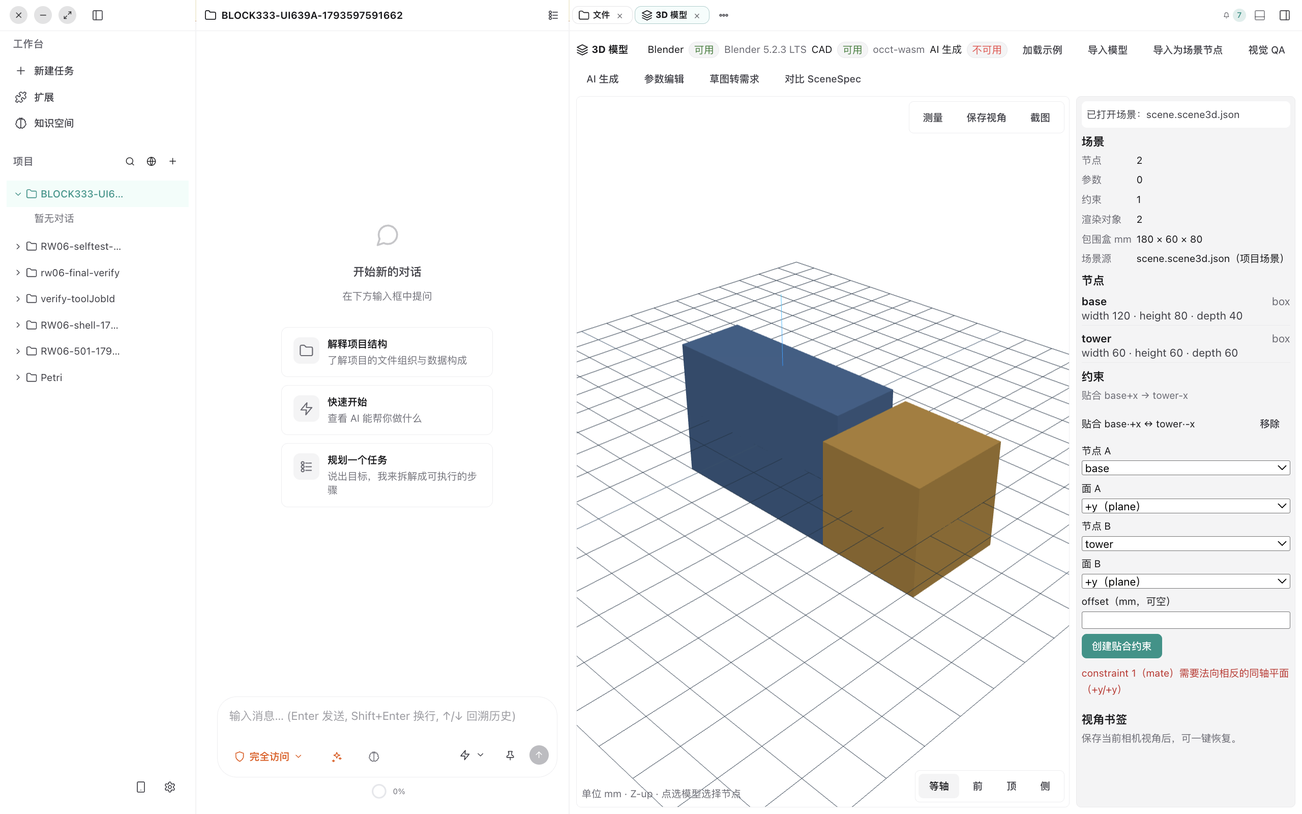
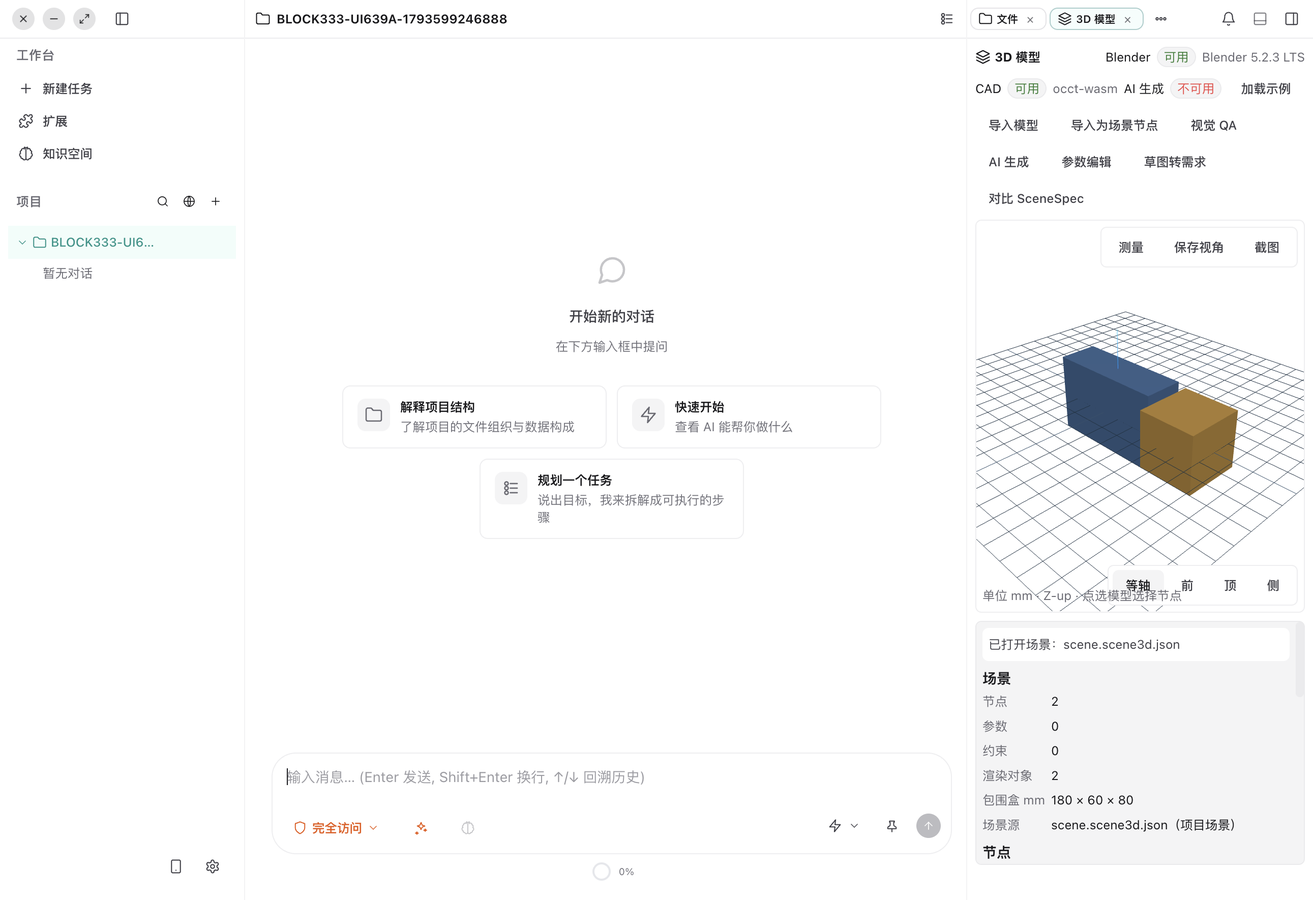
feat(block-333): UI-639a 约束编辑器实机腿 13/13，UI-639a 翻 verified（UI-639a）
dev 栈重启后复跑：U10 移除闭环——约束由创建端分配 id=c1，点「移除」文件归零、UI 空态；全 13/13 allPass。\n\n台账：UI-639a in_progress→verified（dev Electron 边界内，证据 acceptance/block-333/*-darwin.json）。BLOCK-332 债 29→28（live-missing 6→5，DEBT_CEILING 下调）。BLOCK-333 completed，registry/README/AUDIT-LOG/handoff 同步。\n\n环境抓真：dev-electron.js 不拉 Vite（重启后须单独起 frontend dev）；重启后 CDP 回落 9222，flow 用 PETRI_CDP_PORT 覆盖。

diff --git a/docs/AUDIT-LOG.md b/docs/AUDIT-LOG.md
@@ -1,13 +1,12 @@
 # 审计广播台 (AUDIT-LOG)
-最后更新：2026-11-02（🔵 **启动登记（active）：BLOCK-333 UI 补腿批第一批 = UI-639a 约束编辑器工作区实机腿**（用户裁决「行 按照建议继续推进」，承接 `ui-leg-live-batch` 建议，Jev 不可用按队列序兜底）——**实机腿 12/13**（flow=`block333-ui639a-constraint-editor-live`，走真实入口：`/project/<id>?file=scene.scene3d.json` → 预览「在 3D 模型打开」→ 约束四下拉 → 提交 → **读磁盘复核写盘**）：U0–U9b 全绿（约束 `kind=mate a=base aFace=+x b=tower bFace=-x` 真进 scene 文件、UI 列表反映、同节点被前端守卫拒、法向同向 +y/+y 被**后端**拒且文件未变）；**U10「移除」BLOCKED=旧后端仍在跑**（core 变更不热更，需重启 dev 栈）。**实机抓到并已修真缺陷：约束建出来就再也删不掉**——编辑器按钮 `disabled={!row.id}`、后端 `remove_constraint` 按 `c.id` 匹配，但 `add_constraint` 从不分配 id 且 `CONSTRAINT_FIELDS` 白名单不收 id（三条证据链见 plan §3）；修法=id 纳入四类白名单 + 创建即分配唯一 `cN`（避开既有 id）+ 重复 id 显式拒 + `validateSceneSpec` 对重复/非法 id 给错（老场景无 id 仍合法，加性）。跨语言一致性由既有 `block322-p3-constraints` 门禁抓真（前端 `scene3d.ts` 白名单必须同步，本包实测红过一次）。证据：契约 `test/block333-constraint-id-addressable.test.mjs` 5/5 + `block322-p3-constraints` 8/8 + 前端 scene3d 15/15 + `acceptance/block-333/*-darwin.json`。plan=docs/block-333-ui-leg-live-batch-plan.md。G0 开发期常态 · 不外推 packaged/Provider/GA。）
+最后更新：2026-11-02（🔵 **启动登记（active）：BLOCK-334 结果宿主统一 = 右栏承载 · 中央四态退役 · 渲染层合并**（用户裁决三段：「目前我们有结果查看面板 我在想这个是否有必要呢？毕竟我们有文件预览 也有3D模型 结果展示页面」→「右侧栏还有个结果 也是重复的吧 中间栏结果面板不是很合适,使用上不丝滑.」→「把这个怎么做说的明白点 并且立包,下面开干」）——评估结论：结果面板**本体不可砍**（任务产物落全局 `jobs/<jobId>/output/` 不在项目工作区、文件树看不到；真值/血缘/受控改写 Composer/pack 结果面契约别处没有），错的是**宿主形态**：中央接管是 UI-106（G0-RS-P1）从 360px 右栏迁出的决定，前提已不成立（右栏「文件」今为 UI-451 多 tab 常驻栈、3D 工作面同栏、`resultRightWidth:720` 偏好位仍在），其后 P4R-2 / UI-116 / UI-181 / UI-653 四笔补丁都在为「中央是模态的」买单；右栏「结果」tab 只剩 `ResultStudioInspector` + 高级抽屉，与中央 ContextBar 八成重合、结果态下被 UI-116 收起只在回会话时露出残影。**裁决 D1–D7**：四态（result/code/compare/history）降为宿主局部子状态不进 URL，URL 只留 `?job=&artifact=` 且跟右栏结果开合同步 / 右栏加宽走独立偏好 `resultRightWidth` + 左栏收起（UI-116 语义只留左半边）/ Inspector 退役（来源工具+技术详情折进 CompactResultNavigator）/ 不留中央「放大」兜底（reopen=实机证明 720–900px 不可用则由用户裁决）/ 旧四态深链 fail-closed 落 chat（同 UI-347/364/365 退役 search/plugins/settings 口径）/ P2 以 `viewerRegistry` 为两宿主唯一分派源 / 判定=重构非补丁（迁前后定向测试对账）。**阶段**：P1 宿主迁移（新建 `work-surface/ResultsSurface` 吸收 CenterPanel 结果块与 pack 解析簇；RightPanel 接宿主；`WorkspaceMode='chat'|'scheduled'`；`handleOpenResult` 去 `preserveWorkspaceMode`；标题栏/open-effects/packTabData/resultFocusLayout 去四态依赖；UI-657）→ P2 渲染层统一（markdown/table/text/image/html/spreadsheet 六类各一个 viewer + 批注/选择 scope 参数化；PDF/3D/video 只改引用；UI-658）。**非范围**：后端 manifest/truth/revision 契约与落盘位置零改、零新依赖、不重设计 compare 分屏、不动 scheduled/3D 工作面/文件 tab 栈、不做结果独立窗、不列 G1+。**并行隔离**：BLOCK-333 在制未提交 WIP（`core/petri-server/helpers/scene3d.js`、`frontend/src/lib/scene3d.ts`、`acceptance/block-333/`、`test/block333-*`、dev-verify flow）零触碰、不 stage、不提交；本包文件面见 plan §7。plan=docs/block-334-result-host-unification-plan.md。G0 开发期常态 · 不外推 packaged/Provider/GA。）
+最后更新：2026-11-02（✅ **BLOCK-333 UI 补腿批第一批 completed：UI-639a 约束编辑器工作区腿实机 13/13，UI-639a 翻 verified**（用户裁决「行 按照建议继续推进」，承接 `ui-leg-live-batch` 建议，Jev 不可用按队列序兜底）——**实机腿 12/13**（flow=`block333-ui639a-constraint-editor-live`，走真实入口：`/project/<id>?file=scene.scene3d.json` → 预览「在 3D 模型打开」→ 约束四下拉 → 提交 → **读磁盘复核写盘**）：U0–U9b 全绿（约束 `kind=mate a=base aFace=+x b=tower bFace=-x` 真进 scene 文件、UI 列表反映、同节点被前端守卫拒、法向同向 +y/+y 被**后端**拒且文件未变）；**U10「移除」已闭环**：dev 栈重启后（Vite 单独拉起 + Electron 重载 dev server）复跑 **13/13 allPass**——约束由创建端分配 ，点「移除」后文件 constraints 归零、UI 空态。**实机抓到并已修真缺陷：约束建出来就再也删不掉**——编辑器按钮 `disabled={!row.id}`、后端 `remove_constraint` 按 `c.id` 匹配，但 `add_constraint` 从不分配 id 且 `CONSTRAINT_FIELDS` 白名单不收 id（三条证据链见 plan §3）；修法=id 纳入四类白名单 + 创建即分配唯一 `cN`（避开既有 id）+ 重复 id 显式拒 + `validateSceneSpec` 对重复/非法 id 给错（老场景无 id 仍合法，加性）。跨语言一致性由既有 `block322-p3-constraints` 门禁抓真（前端 `scene3d.ts` 白名单必须同步，本包实测红过一次）。证据：契约 `test/block333-constraint-id-addressable.test.mjs` 5/5 + `block322-p3-constraints` 8/8 + 前端 scene3d 15/15 + `acceptance/block-333/*-darwin.json`。plan=docs/block-333-ui-leg-live-batch-plan.md。G0 开发期常态 · 不外推 packaged/Provider/GA。）
 最后更新：2026-11-02（**BLOCK-332 UI 台账证据债分诊 completed**（用户裁决「行的 按照建议推进」，承接 Jev 建议 `ui-evidence-debt`，Jev 不可用按队列序兜底已标注）——核心澄清：`grep -c in_progress` 给的 **218 是假数**（历史「最后更新」链行同带该词 + `in_progress → verified` 叠加写法 + 同 id 多段），按**段首状态**解析实测 **451 段 / 442 唯一 id：verified 411 / closed 11 / live-missing 6 / blocked 23 / unknown 0**，真债=**29**；②13 处状态词规范化（只改状态字段，不新增判断、全部有台账内既有裁决原话支撑）：UI-185 六段同判 `superseded`（2026-10-30 RW-02 d 档：审阅面已由 UI-204/249 承接）/ UI-197+UI-505 `cancelled`（判销）/ UI-524+UI-485 `verified`（RW-02 d 档改判：组件测试与 theme 门禁即证据载体，移出实机腿验收域）/ UI-461 `verified`（守卫 3/3+170/170+tsc 0，零视觉变化）/ UI-200 `in_progress`（本轮核对 CodeMirrorDiffView 已投产 ReviewMode + 组件 8/8，缺实机过目）/ UI-595 `in_progress`（降档 b：组件 62/62 已锚，待图像 artifact 腿）；③新增 `npm run ui:audit:triage`（口径单一源 `scripts/ui-ledger-triage.mjs` 导出 `triageLedger()`，测试 import 不复写）+ **状态契约与债上限棘轮** `test/ui-ledger-status-contract.test.mjs` **4/4**（段首合法状态词 / 同 id 至多一段未闭合 / live-missing≤6+blocked≤23 只许下降 / 证据与台账同构防旧快照）；④分诊表入 plan §4：可补 6 条（UI-639a 首选、UI-475、UI-522；UI-534 实为交付债；UI-595 随 artifact seed；UI-526 卡 R 运行时授权）+ 受阻 23 条按「环境触发 / 需裁决 / 待交付 / 待复核」四类归因，**待复核族不冒充已判档**；⑤**非范围**：不补任何条目实机腿、不重建历史段，补腿另立批次。plan=docs/block-332-ui-ledger-evidence-debt-plan.md；证据 acceptance/block-332/ui-ledger-triage.json。**当前无 active 工作包**。G0 开发期常态 · 不外推 packaged/Provider/GA。）
 最后更新：2026-11-02（**四项裁决批当日立项当日收口：BLOCK-329/330/331 completed**（用户裁决「除 R 运行时下载授权与 G1+ 暂不做，其它几项都确定开整」+「一次性搞定」）——①**BLOCK-329** macOS 转盘 mp4 外部 ffmpeg 合成回退：`helpers/ffmpeg-turntable.js` 接线进 `blender-provider.js`（读 report 后、登记 outputs 前），窄触发（`video` 缺席 + `movieCapability='unavailable'` + 帧在盘；`movie_render_failed` 真失败不代偿，`PETRI_MODEL3D_FFMPEG_FALLBACK=0` 可关），concat 显式帧清单 → libx264/yuv420p/偶数缩放 → 与 Blender 同名 `turntable.mp4`，留痕 `videoSource='ffmpeg'` + `blenderVideoError` 保留 + `videoError` 清空；契约 **4/4** + mac 实机 `block322-p2-04-turntable-live` **13/13 allPass**（`tier=ffmpeg`，mp4 15797B、sha/bytes 磁盘重算一致、`ftypisom` 文件头、临时帧清单零残留）；plan=docs/block-329-ffmpeg-turntable-plan.md。**环境抓真**：本机 brew ffmpeg 8.1 因 x265 4.1→4.2 soname 失配无法启动（`libx265.215.dylib`）→ `brew reinstall ffmpeg`（9.0.2）后实机通过；"二进制存在≠可用"入册，不可用时 fail-closed（`ffmpeg_failed` + stderr 原文，不出空壳 mp4）。②**BLOCK-330** db 装配层循环加载收敛 + dev-verify 证据名平台化：`db/schema.js` 删掉纯副作用 `require('./connection')`（BLOCK-328 抓真的环），依赖恢复单向 `connection → schema`，schema 可独立 require（真进程验证 + 不建库），顺带删 `busyRetryDelays()` 幽灵副本使退避表单一声明；`createRun` 证据名改 `<slug>-live-<process.platform>`（加性，旧文件不动，`-live` 不双拼）并写入 `platform` 字段；门禁 **4/4 + 5/5（block328）+ 5/5（block326）+ 5/5（dev-verify）**；plan=docs/block-330-db-require-order-plan.md。③**BLOCK-331** C-14+C-01「先实测量化再定形、不硬造」：测量腿 `scripts/block331-tool-output-measure.mjs` → `acceptance/block-331/tool-output-measure.json`（6 类真实形态样本经模型可见出口：单条 290–1500 tokens；60 次工具调用 ≈ 52110 tokens = 64k 窗口 79.5% / 128k 39.8%；与 `computeContextBreakdown` 对账同量级）；由数字定形=**通用超限路径改头 40%+尾 60%+精确省略字符数**（原实现只留头、尾部整段丢=真缺陷，原文仍在 tool_trace_store/tool_jobs 可回读）+ **每行 DOM 节点 ≤60 棘轮**（实测 user 7 / assistant 42；500 条 ≈ 21000 节点 vs Chromium ~10k 阈值）；**虚拟化不引依赖**（重开条件量化：≥400 条真实会话 + 用户卡顿或 >10k 节点，首选零依赖 `content-visibility`）；契约 **5/5** + `agent-tool-result` 15/15 + 前端 DOM 棘轮 1/1；plan=docs/block-331-tool-output-and-list-scale-plan.md。四条 🟡（mac mp4 缺席 / 证据名平台化 / schema 循环 / 二者随附）全部翻 ✅。**当前无 active 工作包**。G0 开发期常态 · 不外推 packaged/Provider/GA。）
 最后更新：2026-11-02（**换 Agent 交接登记**：用户裁决「除 R 运行时下载授权与 G1+ 暂不做，其它几项都确定开整」=A mac 转盘 mp4 外部 ffmpeg 合成（2026-10-31 🟡 翻为已裁决待实现，RULING-03 同型）/ B db 装配层循环加载收敛（2026-11-02 🟡）/ C dev-verify 证据文件名平台化（2026-10-31 🟡 另一半）/ D C-14 工具输出压缩 + C-01 长列表虚拟化（重开条件未触发，裁决=先实测量化再定形）。A 项 WIP=`helpers/ffmpeg-turntable.js`（untracked 未接线）；四项勘察结论与落点见 handoff 恢复要点。未立项任何 BLOCK（立项由接手 Agent 按 WORK-PACKAGE-LAUNCH-CHECKLIST 执行）。G0 开发期常态 · 不外推 packaged/Provider/GA。）
 最后更新：2026-11-02（**BLOCK-328-EARLY-LOOP-GUARD completed（当日立项当日收口；用户裁决「行呀 开整」）**：327 取证收口两道防线——①加载期守卫 `helpers/early-loop-guard.js`（server.js 在 require('./db') 前定格基准、db 加载后超 3000ms 告警；**实证**：持写锁 3.5s 启动 → `[early-loop] ⚠ module-load phase took ~3456ms` 在监听前打出，昨天隐形的同步 busy 等待现在可见）②`initSchemaWithBusyRetry`（退避 2s/5s，仅 busy_timeout 10s 耗尽后介入，非 BUSY 立抛 fail-closed）。零行为变化（正常启动无告警无重试）。证据=契约 5/5（含真进程持锁集成）+ 邻域 13/13 + closeout 十一门 PASS。**实机抓真**：`db/schema.js` 被先 require 时循环加载 TDZ（HEAD 同样崩 initSchema is not a function）——本包把自有导出前置挂载到 require('./connection') 之前消除入口盲点，但 `getCurrentG0Baseline` TDZ 属存量，登记 🟡 不扩界。plan=docs/block-328-early-loop-guard-plan.md。G0 开发期常态 · 不外推 packaged/Provider/GA。）
 最后更新：2026-11-01（**BLOCK-327-MAC-COLDSTART-DIAGNOSIS 启动登记（active；用户裁决「可以的 继续」）**：Mac 冷启动 event-loop ~10s 阻塞取证——2026-09-30 🟡 的本机复现与根因定位（--cpu-prof + 启动时间线），只取证不改产品；两个旧嫌疑（stale-running/retention sweeper）已排除在先。plan=docs/block-327-mac-coldstart-diagnosis-plan.md。G0 开发期常态 · 不外推 packaged/Provider/GA。）
 最后更新：2026-11-01（**BLOCK-326-AUDIT-DEBT-SWEEP 启动登记（active；用户裁决「继续冲 搞完」）**：AUDIT-LOG 🟡 工程债清偿五项=①SIGTERM teardown 只关库不退出（修+spawn 回归测试）②四 flow 缺 id 致 verify --list 必红（补导出）③state living-plan 漏报+BLOCK-322 registry 漏翻转④C6 夹具过时（mate 已入白名单，改 bond）⑤decision-api no_key 早退不落账（补 degraded）。不含需裁决项（mac ffmpeg/平台文件名/R 下载留 🟡）。plan=docs/block-326-audit-debt-sweep-plan.md。G0 开发期常态 · 不外推 packaged/Provider/GA。）
-最后更新：2026-11-01（**BLOCK-325-MODEL-SURFACE-BUDGET 启动登记（active；用户裁决「很棒 继续」）**：模型可见面尺寸预算 CI 门禁——系统提示/工具定义字面量与工具数基线棘轮（任何增长即红，--update 下调需说明）+ 核心面退役词扫描；基线 test/model-surface-baselines.json；pack 注入内容不在扫描面（合法域扩展通道）。plan=docs/block-325-model-surface-budget-plan.md。G0 开发期常态 · 不外推 packaged/Provider/GA。）
-最后更新：2026-11-01（**BLOCK-324-REASON-TAXONOMY 启动登记（active；用户裁决「开整」）**：统一结构化原因码 taxonomy——封闭 REASONS 注册表 + renderReason + 源码扫描机械锁（新增未注册即红）；第一批=治理/审批族归并；GET /api/ai/reason-codes 词表出口；加性接线零行为变更；decision_log 自由文本不归并（reopen）。plan=docs/block-324-reason-taxonomy-plan.md。G0 开发期常态 · 不外推 packaged/Provider/GA。）
 
 
 
@@ -145,6 +144,7 @@
 > 已收口条目（✅）**一律移入「最近处理记录」**，不得在本区段堆积——本次清理将 23 条已收口项迁出，
 > 待处理项由 28 行降为 8 行（活跃项占比 100%）。新增 ✅ 项请直接追加到「最近处理记录」。
 ## 最近处理记录
+| 🔵 BLOCK-334-RESULT-HOST-UNIFICATION（结果宿主统一：右栏承载 · 中央四态退役 · 渲染层合并，2026-11-02；用户裁决「把这个怎么做说的明白点 并且立包,下面开干」） | 2026-11-02 | **启动登记（active；P1 宿主迁移 → P2 渲染层统一）**：评估=结果面板本体不可砍（产物在全局 jobs 目录、真值/血缘/Composer/pack 契约的唯一宿主），宿主形态错（UI-106 中央接管的前提已失效；P4R-2/UI-116/UI-181/UI-653 四笔补丁同根）；右栏「结果」Inspector 为旧宿主残骸，退役。D1 四态局部化不进 URL / D2 `resultRightWidth` 独立偏好 + 左栏收起 / D3 Inspector 退役 / D4 无中央放大兜底 / D5 旧深链 fail-closed 落 chat / D6 viewerRegistry 唯一分派 / D7 重构非补丁。门禁预期：tsc 0 + 定向 vitest（CenterPanel→ResultsSurface 迁址用例 / RightPanel / routing / title-bar / open-effects）+ gate:code-size + docs/ui 门 + 实机 `acceptance/block-334/result-host-live.json` 八断言 + closeout 十一门。并行 BLOCK-333 文件面零触碰不 stage。plan=docs/block-334-result-host-unification-plan.md | BLOCK-334 / P0-LAUNCH |
 | ✅ BLOCK-328-EARLY-LOOP-GUARD（加载期守卫 + initSchema busy 重试，2026-11-02；用户裁决「行呀 开整」） | 2026-11-02 | **completed（当日收口）**：327 修复三选项中②+①落地；守卫能见度实证（持锁 3.5s → ~3456ms 告警在监听前）；重试仅在 busy_timeout 耗尽后介入；零行为变化；契约 5/5 + 邻域 13/13 + closeout PASS；存量循环加载 TDZ 登记 🟡。plan=docs/block-328-early-loop-guard-plan.md | BLOCK-328 / P6-CLOSED |
 | ✅ AUDIT-LOG 🟡 工程债五项清偿（SIGTERM 不退出 / C6 判据过时 / next:suggest 不落账 / state 漏报 living-plan / verify --list 必红）completed（BLOCK-326 清偿批；用户裁决「继续冲 搞完」） | 2026-11-01 | 五项修法均在案、当日清偿：①SIGTERM teardown 捕获 httpServer 关库→close→exit(0) 2000ms 兜底 + spawn 真进程回归测试；②四 flow 补 id/description/evidenceDir，verify --list 已可跑；③workspace-state 纳入 living-plan 槽位 + **根因回写** BLOCK-322/STAGE-34 registry 翻 completed（13 包收口机械核对）④C6 夹具 mate→bond+文案对齐 scene3d 现值；⑤decision-api no_key 早退补 degraded 落账（实跑次数台账可见）。证据=test/block326-audit-debt-sweep.test.mjs 5/5 + closeout 十一门 PASS。**不含需裁决项**：mac ffmpeg 合成/dev-verify 证据文件名平台化/R 下载授权留 🟡。plan=docs/block-326-audit-debt-sweep-plan.md | BLOCK-326 / P6-CLOSED |
 | ✅ BLOCK-325-MODEL-SURFACE-BUDGET（model-surface 尺寸预算门禁，2026-11-01；用户裁决「很棒 继续」） | 2026-11-01 | **completed（当日立项当日收口）**：scripts/model-surface-baseline.mjs（measure/compare/--update 纯函数）+ 基线 test/model-surface-baselines.json（systemPromptChars/toolDefsCount/toolDefsChars/perToolChars）+ 契约测试（预算棘轮：任何增长即红 + 退役词扫描：核心系统提示与工具定义不含 单细胞/scRNA/DESeq2/Seurat/FigCode/空间转录组）；红线=只测核心面不扫 pack 注入内容、不预设阈值（基线=现状首测）、增长必须 --update+commit 说明。非范围=token 级预算（CK-04 SECTION_CHAR_BUDGETS 已有）/前端 bundle（block141 已有）。证据=契约 4/4 + closeout 十一门 PASS；基线首测 systemPrompt=940 chars / toolDefs=104 个 56614 chars。plan=docs/block-325-model-surface-budget-plan.md | BLOCK-325 / P6-CLOSED |

diff --git a/docs/README.md b/docs/README.md
@@ -1,5 +1,6 @@
 # Petri Desktop（格物）文档入口
-316. [`block-333-ui-leg-live-batch-plan.md`](./block-333-ui-leg-live-batch-plan.md) — 2026-11-02 **in_progress（用户裁决「行 按照建议继续推进」）**：UI 补腿批第一批=UI-639a 约束编辑器工作区实机腿——真实入口（文件预览→「在 3D 模型打开」→约束四下拉→提交）走到写盘；**12/13**（U0–U9b 全绿：约束真写进 scene 文件、UI 反映、同节点被前端拒、法向同向被后端拒且不写盘；U10 移除待 dev 栈重启）。**实机抓到真缺陷**：约束建出来删不掉（`add_constraint` 从不分配 id + `CONSTRAINT_FIELDS` 白名单不收 id，而移除按钮/后端都按 id 寻址）→ 已修（id 为一等字段 + 前后端白名单同步）+ 契约 5/5。
+317. [`block-334-result-host-unification-plan.md`](./block-334-result-host-unification-plan.md) — 2026-11-02 **active（用户裁决「把这个怎么做说的明白点 并且立包,下面开干」）**：结果宿主统一——评估结论=结果面板本体不可砍（任务产物在全局 `jobs/<id>/output/`、真值/血缘/受控改写/pack 契约的唯一宿主），错的是宿主形态（UI-106 中央接管的前提「右栏 360px 窄且无多 tab 栈」已失效；P4R-2/UI-116/UI-181/UI-653 四笔补丁同根=中央是模态的）；右栏「结果」Inspector 为旧宿主残骸。**P1** 结果查看迁右栏「结果」tab 宿主 `work-surface/ResultsSurface`（四态 result/code/compare/history 降为局部子状态不进 URL；结果 tab 激活→左栏收起 + 右栏切独立偏好 `resultRightWidth`；Inspector 退役；`WorkspaceMode='chat'|'scheduled'`，旧四态深链 fail-closed 落 chat 且 `?job=` 仍开右栏；UI-657）→ **P2** 两宿主渲染层以 `viewerRegistry` 单一分派合并 markdown/table/text/image/html/spreadsheet 六类 viewer + 批注/选择 scope 参数化（UI-658）。零新依赖、后端契约零改、不留中央「放大」兜底。并行 BLOCK-333 文件面零触碰。
+316. [`block-333-ui-leg-live-batch-plan.md`](./block-333-ui-leg-live-batch-plan.md) — 2026-11-02 **completed（用户裁决「行 按照建议继续推进」）**：UI 补腿批第一批=UI-639a 约束编辑器工作区实机腿——真实入口（文件预览→「在 3D 模型打开」→约束四下拉→提交）走到写盘；**13/13 allPass**（约束带 id=c1 真写进 scene 文件、UI 反映、同节点被前端拒、法向同向被后端拒且不写盘、移除归零）。**实机抓到真缺陷**：约束建出来删不掉（`add_constraint` 从不分配 id + `CONSTRAINT_FIELDS` 白名单不收 id，而移除按钮/后端都按 id 寻址）→ 已修（id 为一等字段 + 前后端白名单同步）+ 契约 5/5。
 315. [`block-332-ui-ledger-evidence-debt-plan.md`](./block-332-ui-ledger-evidence-debt-plan.md) — 2026-11-02 **completed（用户裁决「行的 按照建议推进」）**：UI 台账证据债分诊与状态规范化——`grep -c in_progress`=218 是假数（链行/叠加写法/同 id 多段），按段首状态解析真债 **29**（live-missing 6 + blocked 23，unknown 0，451 段/442 id）；13 处状态词规范化（UI-185×6/UI-197/UI-505 判销→closed，UI-524/UI-485 改判→verified，UI-461/UI-200/UI-595 补登）；新增 `npm run ui:audit:triage` + 状态契约与债上限棘轮 4/4；补腿按分诊表另立批次。
 314. [`block-331-tool-output-and-list-scale-plan.md`](./block-331-tool-output-and-list-scale-plan.md) — 2026-11-02 **completed（用户裁决「先实测量化再定形，不硬造」）**：C-14 工具输出压缩 + C-01 长列表虚拟化——测量腿产出 `acceptance/block-331/tool-output-measure.json`（6 类样本经真实模型可见出口：单条 290–1500 tokens，60 次调用 ≈ 52k tokens = 64k 窗口 79.5%）；由数字定形=通用超限路径改「头 40%+尾 60%+精确省略数」（修真缺陷：原本只留头、尾部整段丢）+ 每行 DOM 节点 ≤60 棘轮（实测 user 7 / assistant 42 节点）；虚拟化**不引依赖**，重开条件量化（≥400 条会话 + 用户卡顿 / >10k 节点，首选零依赖 `content-visibility`）。
 313. [`block-330-db-require-order-plan.md`](./block-330-db-require-order-plan.md) — 2026-11-02 **completed**：db 装配层循环加载收敛——`db/schema.js` 删掉纯副作用的 `require('./connection')`（环由 BLOCK-328 抓真），依赖恢复单向 `connection → schema`，schema 可独立 require（原先先 require 者必崩 `initSchema is not a function`），顺带删 `busyRetryDelays()` 幽灵副本让退避表回到单一声明；随包捎带 dev-verify 证据文件名按 `process.platform` 落名（加性，旧文件一律不动，`-live` 不双拼）；门禁 4/4+5/5+5/5+5/5。

diff --git a/docs/project-workspace-handoff.md b/docs/project-workspace-handoff.md
@@ -1,4 +1,5 @@
 # Petri Desktop Current Handoff
+最后更新：2026-11-02（**BLOCK-333 UI 补腿批第一批 completed：UI-639a 约束编辑器实机 13/13，翻 verified**——真实入口走通（文件预览→「在 3D 模型打开」→约束四下拉→提交→**读磁盘复核**→两类 fail-closed→移除归零）。**实机抓到并修真缺陷：约束建出来删不掉**（编辑器按钮 `disabled={!row.id}` + 后端 `remove_constraint` 按 `c.id` 匹配，而 `add_constraint` 从不分配 id、白名单也不收 id）→ id 改为一等字段（创建即分配唯一 `cN`、重复 id 拒、校验给错、老场景兼容），前后端白名单由既有 `block322-p3-constraints` 门禁锁死。BLOCK-332 债 29→28（live-missing 6→5，棘轮已下调）。**环境纪律新增两条**：①`dev-electron.js` 只拉起后端 + Electron，**不拉 Vite**——重启后须单独 `cd frontend && npm run dev`，否则渲染进程 `ERR_CONNECTION_REFUSED`；②重启后 CDP 端口回落 **9222**（不是 9223），flow 用 `PETRI_CDP_PORT=9222` 覆盖。**下一批候选（需发令）= UI-475（需 mock 无 vision 模型）或 UI-522（设置面导出实机走查）**。G0 开发期常态 · 不外推 packaged/Provider/GA。）
 最后更新：2026-11-02（**BLOCK-332 UI 台账证据债分诊 completed，工作区无 WIP、无 active 工作包**——用户「行的 按照建议推进」承接 `ui-evidence-debt` 建议：先把「欠多少债」数准（`grep` 218 是假数，段首解析真债 **29**：live-missing 6 + blocked 23，unknown 0），再把已有裁决但状态没落的 13 处落到字段，再装**状态契约 + 债上限棘轮**（4/4）防回潮。**下一顺位（需用户发令）= 补腿批**：按 plan §4 分诊表从 `UI-639a`（Model3D 约束编辑器工作区腿，本机 dev 栈可做）起，每批 2–3 条；`UI-534` 实为交付债、`UI-526` 卡 R 运行时授权（用户已裁决暂缓）、`UI-595/UI-639/UI-532` 随结果面 artifact seed 批。命令：`npm run ui:audit:triage` 复现计数（证据 `acceptance/block-332/ui-ledger-triage.json`）。G0 开发期常态 · 不外推 packaged/Provider/GA。）
 最后更新：2026-11-02（**四项裁决批全部收口：BLOCK-329/330/331 completed，工作区无 WIP、无 active 工作包**——用户「一次性搞定」把交接的四项一次做完：A mac 转盘 mp4 外部 ffmpeg 合成（契约 4/4 + mac 实机 13/13，`tier=ffmpeg`）/ B db 装配层循环加载收敛（schema 可独立 require，环断开，门禁 4/4）/ C dev-verify 证据文件名平台化（加性：`<slug>-live-<platform>.json`，旧文件不动）/ D C-14+C-01 先实测量化再定形（测量证据入册 + 超限结果头尾双保留修复 + 每行 DOM 节点棘轮；虚拟化**不引依赖**，重开条件量化）。三条 plan 已登记 DOC-REGISTRY，AUDIT-LOG 四条 🟡 全翻 ✅。**环境抓真**：本机 brew ffmpeg 因 x265 soname 失配不可用 → `brew reinstall ffmpeg`（9.0.2）修好；证据见 `acceptance/block-322-p2/*-darwin.json` 与 `acceptance/block-331/`。G0 开发期常态 · 不外推 packaged/Provider/GA。）
 最后更新：2026-11-02（**换 Agent 交接**：用户裁决四项开整（A mac ffmpeg 合成 / B db 装配层循环收敛 / C 证据文件名平台化 / D C-14+C-01）、两项不做（R 下载授权、G1+）；A 项勘察完成并留一个明确 WIP 文件 `core/petri-server/helpers/ffmpeg-turntable.js`（untracked，未接线未测试未提交），其余三项勘察结论与落点已写入恢复要点；无 active 工作包、无欠账。）

diff --git a/docs/ui-productization-audit.md b/docs/ui-productization-audit.md
@@ -192,7 +192,10 @@
 - **实机证据**：`acceptance/rw-02-pack-write-bridge/rw02-pack-write-bridge-live-live.json`（**9/9**，隔离 :3011 + 夹具双包）：合法声明全量透传、非法声明丢弃+诊断；selection-save/annotations create+delete 真实写链；revision-restore 全链 200（git 绑定工作区过物化门）。
 - **边界（reopen）**：①iframe 端到端腿（真 pack surface 在工作区面板渲染后经 postMessage 全链）随 UI-532 同前提（需结果面 job+artifact seed）；②revision-replay（contextToken 机制）/export-run（methods-export LLM 门）两子动词契约+授权已过、宿主分发点 pending（write_kind_host_wiring_pending 确定性回执）。
 
-## UI-639a: 约束编辑器 SceneConstraintEditor（BLOCK-322 P3-03 v2b 第二票；2026-10-30 **in_progress（组件 4/4 + 后端契约 4/4；工作区实机腿待补）**）
+## UI-639a: 约束编辑器 SceneConstraintEditor（BLOCK-322 P3-03 v2b 第二票；2026-11-02 **verified（BLOCK-333 补腿：dev Electron 边界内实机 13/13）**）
+
+- **实机证据（BLOCK-333，`acceptance/block-333/block333-ui639a-constraint-editor-live-darwin.json` 13/13）**：走**真实入口**——`/project/<id>?file=scene.scene3d.json` 文件预览出现「在 3D 模型打开」→ 点进右栏 3D 工作面 → 约束 section 四个下拉（节点 A / 面 A / 节点 B / 面 B，面选项来自特征表 +x…-z）→ 选 `base·+x ↔ tower·-x` 提交 → **读磁盘**确认 `scene.scene3d.json` 真写入 `{kind:mate, a:base, b:tower, aFace:+x, bFace:-x, id:c1}` → UI 列表显示「贴合 base·+x ↔ tower·-x」→ 同节点自贴合被前端守卫拒（`请选择两个不同的节点。`，文件未变）→ 法向同向 `+y/+y` 被**后端**拒（`需要法向相反的同轴平面（+y/+y）`，文件未变）→ 点「移除」→ 文件 constraints 归零、UI 空态。
+- **实机抓到并修**：约束建出来**删不掉**——「移除」按钮 `disabled={!row.id}`、后端 `remove_constraint` 按 `c.id` 匹配，但 `add_constraint` 从不分配 id 且 `CONSTRAINT_FIELDS` 白名单不收 id；修法=id 纳入四类白名单 + 创建即分配唯一 `cN` + 重复 id 拒 + `validateSceneSpec` 对重复/非法 id 给错（老场景无 id 仍合法）。契约 `test/block333-constraint-id-addressable.test.mjs` 5/5；前后端白名单一致性由 `block322-p3-constraints` 8/8 机械锁死。
 
 - **变化面**：新增 `SceneConstraintEditor` 组件（Model3DSurface 约束 section 接线）——节点 A/B 下拉 + 面下拉从特征表派生（`deriveSceneFeatureTable` 同源移植，非自由文本）+ offset 输入；`add_constraint`/`remove_constraint` 走 scene/apply（后端创建即求值 fail-closed——不可解约束整个 apply 拒收）；后端 fail-closed 错误透传显示。scene/apply 操作白名单加 `add_constraint`/`remove_constraint`（校验走 validateSceneSpec+applyConstraints 同源单源）。
 - **为什么这样设计**：约束此前只能手写 JSON 入 spec（BLOCK-322 v2b 前无 UI 创建面）；编辑器让用户从特征表下拉选择而非自由文本（C-44 写权限同款纪律——用户选择受特征表约束，不冒充任意引用）；创建即求值 fail-closed 不落死约束。

diff --git a/docs/block-333-ui-leg-live-batch-plan.md b/docs/block-333-ui-leg-live-batch-plan.md
@@ -1,18 +1,18 @@
 ---
 capability: block-333-ui-leg-live-batch
-status: in_progress
+status: completed
 goal: 按 BLOCK-332 分诊表的「可补实机腿」清单补真实 UI 实机腿。第一批 = UI-639a（Model3D 约束编辑器工作区腿）：从真实入口（文件预览 →「在 3D 模型打开」）走完 选节点/面 → 提交 → 写盘 → 非法约束 fail-closed → 移除 的闭环。
 acceptance:
-  - 实机 flow `.agents/skills/petri-dev-infra/dev-verify/flows/block333-ui639a-constraint-editor-live.cjs`：12/13 断言通过（U0–U9b 全绿；U10「移除」端口因**后端未重启**未完成）。
+  - 实机 flow `block333-ui639a-constraint-editor-live`：**13/13 allPass**（dev 栈重启后复跑，U10 移除通过、约束 id=c1 由创建端分配）。
   - 契约 test/block333-constraint-id-addressable.test.mjs 5/5（创建即分配唯一 id / 按 id 可删 / 重复 id 拒 / 校验给错 / 老场景加性兼容）。
   - 跨语言白名单一致：test/block322-p3-constraints.test.mjs 8/8（前后端 CONSTRAINT_FIELDS 同步加入 id）。
   - 前端库回归：frontend/src/lib/scene3d.test.ts 15/15。
-reopen: U10 需要重启 dev 栈（core 变更不会热更）；重启后复跑同一 flow 应 13/13，届时把 UI-639a 翻 verified 并把 BLOCK-332 的 live-missing 棘轮下调 1。
+reopen: 已兑现（2026-11-02 重启后 13/13，UI-639a 翻 verified、live-missing 棘轮 6→5、债 29→28）。下一批候选=UI-475（需 mock 无 vision 模型）/ UI-522（设置面导出实机走查）。
 ---
 
 # BLOCK-333 — UI 补腿批（第一批：UI-639a 约束编辑器）
 
-状态：**in_progress（P1 实机腿 12/13；U10 待 dev 栈重启）**
+状态：**completed（2026-11-02 当日立项当日收口；实机 13/13）**
 truthDomain：`block-333-ui-leg-live-batch`
 canonical 入口：本文件
 
@@ -54,7 +54,7 @@ canonical 入口：本文件
 | U8 | UI 约束列表反映且无错误 | PASS（`贴合 base·+x ↔ tower·-x`） |
 | U9a | 同节点自贴合被前端守卫拒 | PASS（`请选择两个不同的节点。`，文件未变） |
 | U9b | 法向同向（+y/+y）被**后端**拒 | PASS（`需要法向相反的同轴平面（+y/+y）`，文件未变） |
-| U10 | 移除约束 → 文件归零 | **BLOCKED**：旧后端仍在跑，`row.id` 缺失导致按钮 disabled——修好的代码需要重启 dev 栈 |
+| U10 | 移除约束 → 文件归零 | PASS（重启后端后：约束带 id=c1 → 点「移除」→ 文件 constraints 归零、UI 空态） |
 
 ## 5. 环境抓真
 
@@ -70,6 +70,6 @@ canonical 入口：本文件
 
 ## 7. 完成语义
 
-第二阶段的完成条件：dev 栈重启后复跑 `npm run verify -- block333-ui639a-constraint-editor-live` → **13/13**，然后把 UI-639a 从 `in_progress` 翻 `verified`（dev Electron 边界内），并把 BLOCK-332 的 live-missing 上限 6→5 下调。
+`completed`＝flow **13/13 allPass**（含重启后 U10）+ UI-639a 翻 `verified`（dev Electron 边界内）+ 契约 5/5 + 跨语言白名单 8/8 + 前端 15/15 + BLOCK-332 棘轮下调（live-missing 6→5、债 29→28）。
 
 G0 开发期常态 · 不外推 packaged/Provider/GA。

diff --git a/docs/archive/checkpoints/audit-log-through-2026-11-01.md b/docs/archive/checkpoints/audit-log-through-2026-11-01.md
@@ -5,3 +5,7 @@
 > 状态与完成语义以 canonical 文档（roadmap/plan/DOC-REGISTRY）为准，本档仅作广播历史追溯。
 
 最后更新：2026-11-01（**BLOCK-323-PROGRESSIVE-AUTONOMY completed + UI-655 verified（2026-11-01 当日立项当日收口；用户裁决「行 规划好 开整吧」+「开整」补腿令）**：放权坡道——规则/工具层 observe 中间档（命中只记录不执行）+ 本地复盘人工升级 allow + policy_observations UPSERT 合并表 + PolicyReviewBridge 通知；四条红线全守住（坡道终点复用既有 allow 不发明 auto 档/升级永远人工/判定序六层安全地板不变/不建第二执行器）。证据=契约 8/8 + 前端 6/6 + 邻域回归 29/29 + 后端实机 `acceptance/block-323/block323-observe-live.json` 13/13 + **UI 离屏实机 `block323-observe-ui-live.json` 20/20**（`/settings?section=decisions` 深链→四档→待复盘行→真实点击升级放行 + REST 同后端对账→任务2 自动执行+审计行→标复盘清空→重载双区可见→亮/暗截图）+ closeout 十三门 PASS（`1699ce6b`）。**实机抓真三处均修**：①探针缺 `context.projectId` 致 exec `project_required`（B 腿假绿被 A 腿暴露）；②**flow 模块顶层固化 `PETRI_B323_API`（wrapper require 先于设 env）→ REST 误落 ：3001 用户活后端**——页内/REST 双通道对比定位；误建 3 任务（均 failed 终态、未执行 npm）+3 会话**已清偿**（DELETE ok×3）；教训=flow 读 wrapper 注入 env 必须运行时取；③lint 7 个 unsafe-any（Array.isArray 收窄 ReadonlyArray→any[]）。决策工具面如实记录：doc:suggest/next:suggest/output:judge 本轮均 `jev_unavailable:no_key`（用户密钥暂缺，2026-10-30 🟡 在案）。plan=docs/block-323-progressive-autonomy-plan.md。G0 开发期常态 · 不外推 packaged/Provider/GA。）
+
+<!-- audit-log-compact.mjs 追加 @ 2026-11-02T06:01:47.399Z -->
+最后更新：2026-11-01（**BLOCK-325-MODEL-SURFACE-BUDGET 启动登记（active；用户裁决「很棒 继续」）**：模型可见面尺寸预算 CI 门禁——系统提示/工具定义字面量与工具数基线棘轮（任何增长即红，--update 下调需说明）+ 核心面退役词扫描；基线 test/model-surface-baselines.json；pack 注入内容不在扫描面（合法域扩展通道）。plan=docs/block-325-model-surface-budget-plan.md。G0 开发期常态 · 不外推 packaged/Provider/GA。）
+最后更新：2026-11-01（**BLOCK-324-REASON-TAXONOMY 启动登记（active；用户裁决「开整」）**：统一结构化原因码 taxonomy——封闭 REASONS 注册表 + renderReason + 源码扫描机械锁（新增未注册即红）；第一批=治理/审批族归并；GET /api/ai/reason-codes 词表出口；加性接线零行为变更；decision_log 自由文本不归并（reopen）。plan=docs/block-324-reason-taxonomy-plan.md。G0 开发期常态 · 不外推 packaged/Provider/GA。）

diff --git a/docs/block-332-ui-ledger-evidence-debt-plan.md b/docs/block-332-ui-ledger-evidence-debt-plan.md
@@ -40,7 +40,7 @@ canonical 入口：本文件
 | blocked | 23 | 依赖未齐或依赖外部条件 |
 | unknown | **0** | 段首无合法状态词（台账缺陷，门禁即红） |
 
-债 = live-missing + blocked = **29**；同 id 双开 = **0**。
+债 = live-missing + blocked = **29**；同 id 双开 = **0**。（2026-11-02 BLOCK-333 补腿后：UI-639a 翻 verified → live-missing 6→5、债 29→28，棘轮已下调）
 
 ## 3. 状态规范化（13 处，全部有台账内既有裁决支撑）
 
@@ -65,7 +65,7 @@ canonical 入口：本文件
 
 | 条目 | 补腿前提 | 处置 |
 | --- | --- | --- |
-| UI-639a | Model3D 工作区 + 约束 section | 本机 dev 栈可做，**下一批次首选** |
+| UI-639a | Model3D 工作区 + 约束 section | **已完成（BLOCK-333 实机 13/13，翻 verified）** |
 | UI-475 | 未配置识图的模型 + 贴图/拖图 | dev 栈可做（需 mock 一个无 vision 的模型） |
 | UI-522 | 设置面渠道导出实机产物 | 可做，需真实设置面走查 |
 | UI-534 | **UI 控件未交付** → 实为交付债 | 转交付候选，不属证据债 |
